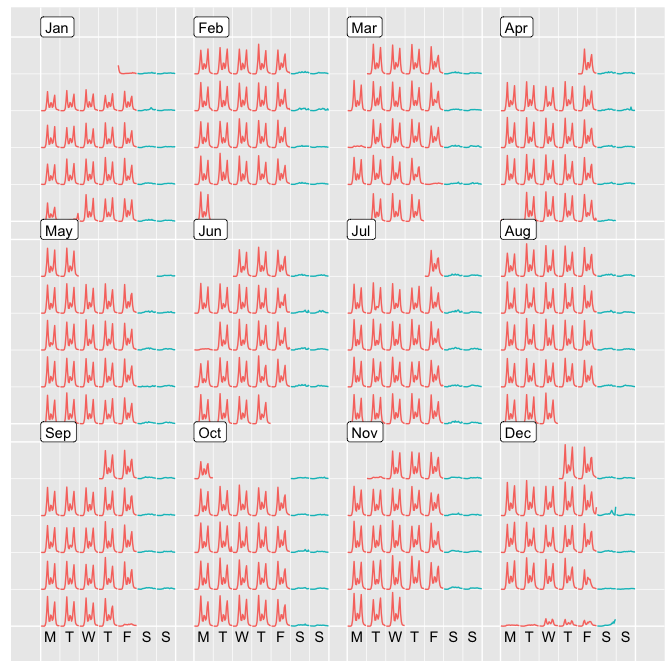
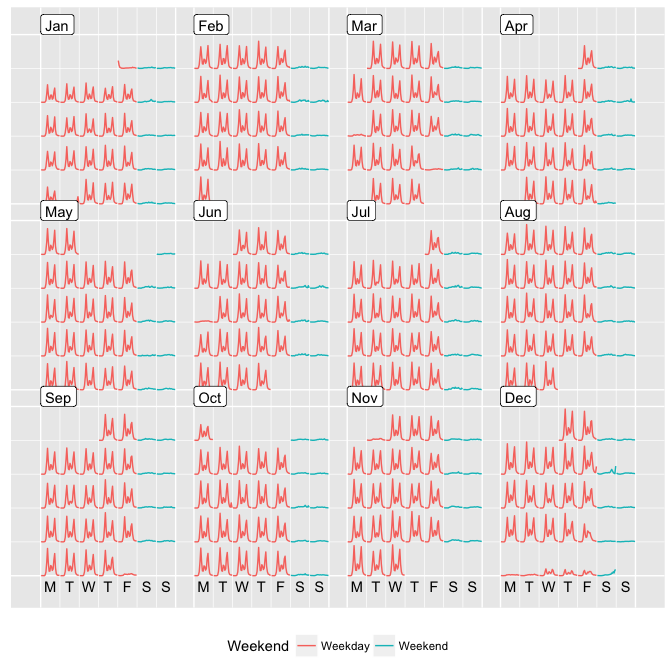
tweaks of descrption and readme

diff --git a/README.md b/README.md
@@ -3,7 +3,7 @@
 sugrrants
 =========
 
-[![Travis-CI Build Status](https://travis-ci.org/earowang/sugrrants.svg?branch=master)](https://travis-ci.org/earowang/sugrrants) [![Coverage Status](https://img.shields.io/codecov/c/github/earowang/sugrrants/master.svg)](https://codecov.io/github/earowang/sugrrants?branch=master) [![CRAN\_Status\_Badge](http://www.r-pkg.org/badges/version/sugrrants)](https://cran.r-project.org/package=sugrrants)
+[![Travis-CI Build Status](https://travis-ci.org/earowang/sugrrants.svg?branch=master)](https://travis-ci.org/earowang/sugrrants) [![Coverage Status](https://img.shields.io/codecov/c/github/earowang/sugrrants/master.svg)](https://codecov.io/github/earowang/sugrrants?branch=master) [![CRAN\_Status\_Badge](http://www.r-pkg.org/badges/version/sugrrants)](https://cran.r-project.org/package=sugrrants) [![Downloads](http://cranlogs.r-pkg.org/badges/sugrrants)](https://cran.r-project.org/package=sugrrants)
 
 Overview
 --------
@@ -13,11 +13,22 @@ The goal of *sugrrants* is to provide supporting graphics with R for analysing t
 Installation
 ------------
 
-You could install the development version from Github using
+You could install the stable version on CRAN:
+
+``` r
+install.packages("sugrrants")
+#> Installing package into '/usr/local/lib/R/3.4/site-library'
+#> (as 'lib' is unspecified)
+#> Warning: package 'sugrrants' is not available (for R version 3.4.1)
+```
+
+You could also install the development version from Github using:
 
 ``` r
 # install.packages("devtools")
 devtools::install_github("earowang/sugrrants", build_vignettes = TRUE)
+#> Skipping install of 'sugrrants' from a github remote, the SHA1 (4a468d11) has not changed since last install.
+#>   Use `force = TRUE` to force installation
 ```
 
 Usage
@@ -60,7 +71,7 @@ calendar_df
 p <- calendar_df %>%
   ggplot(aes(x = .Time, y = .Hourly_Counts, group = Date, colour = Weekend)) +
   geom_line() +
-  theme(legend.position = "none")
+  theme(legend.position = "bottom")
 prettify(p)
 ```
 
